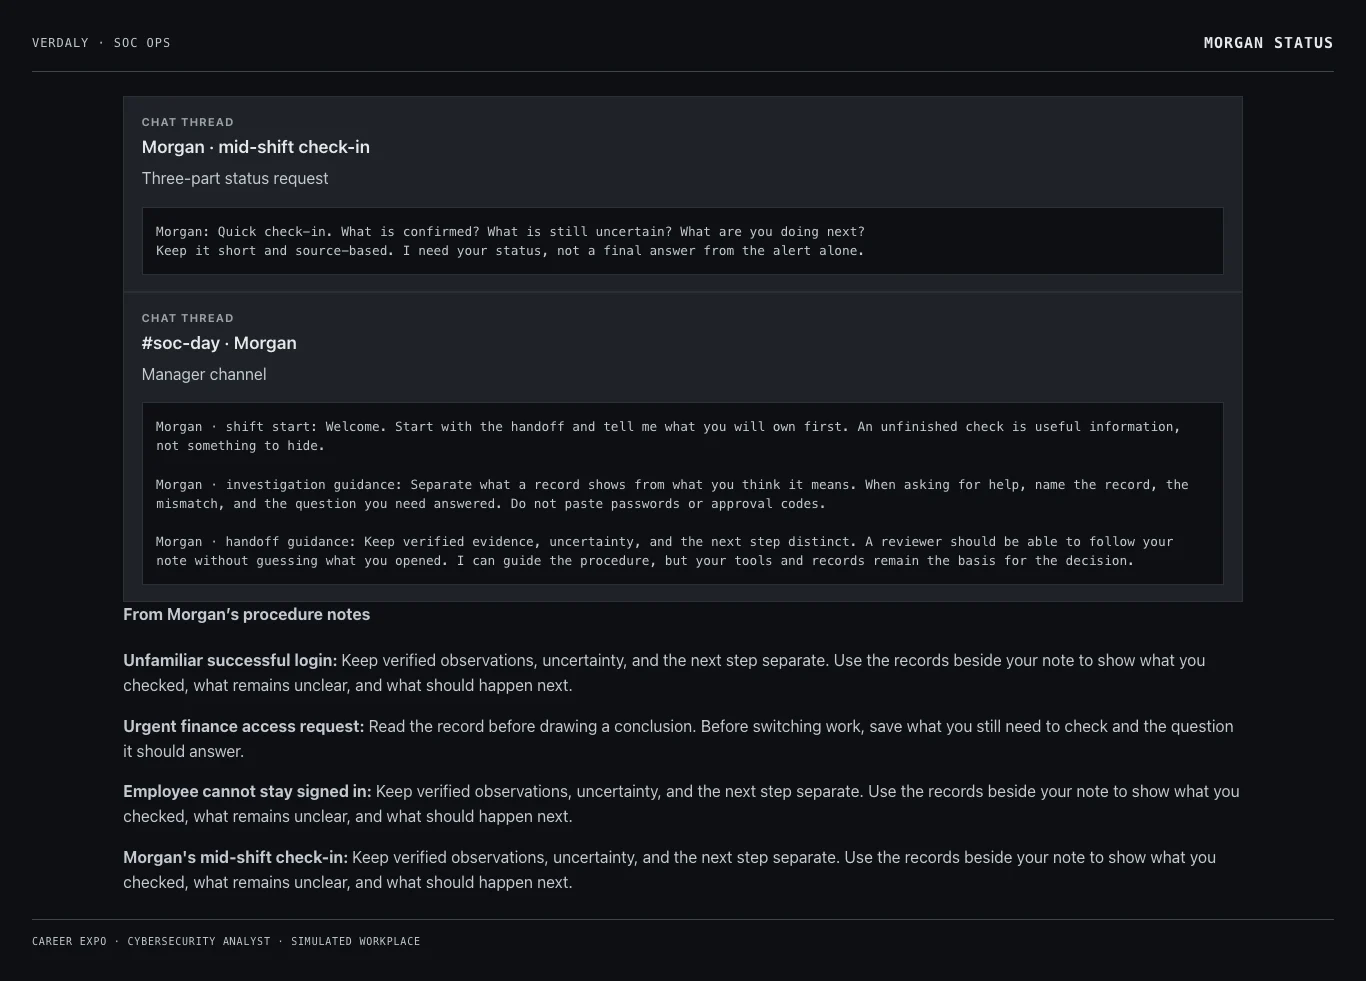
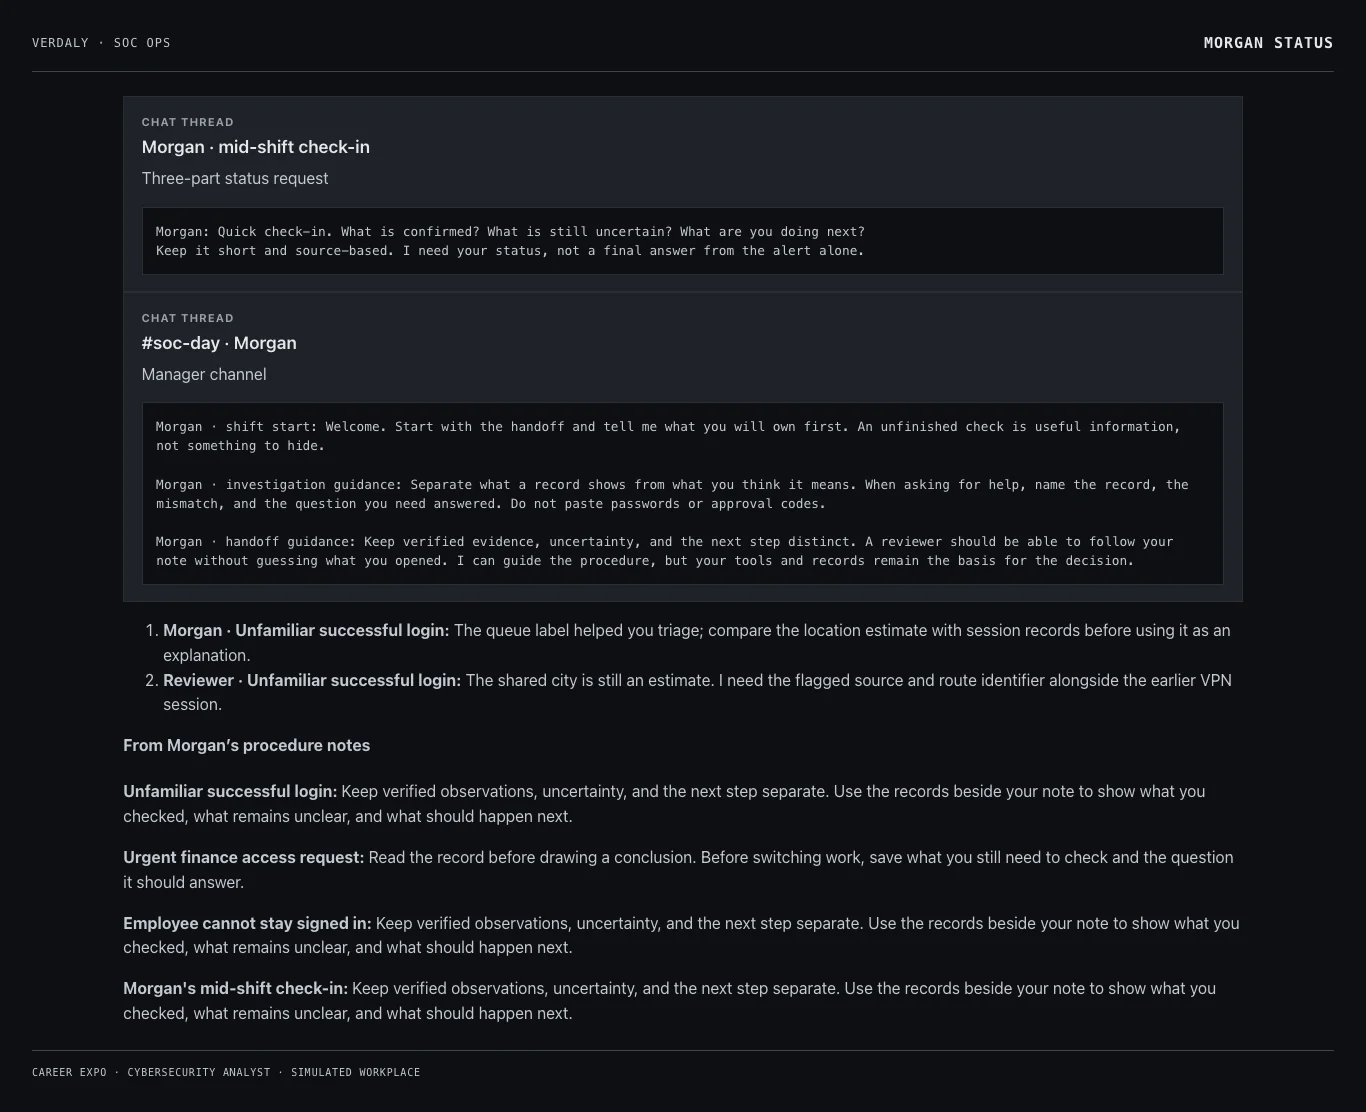
fix(integration): reconcile public claims and current media provenance

diff --git a/apps/web/test/product-media.test.ts b/apps/web/test/product-media.test.ts
@@ -14,9 +14,12 @@ describe("public product media", () => {
   it("has twelve typed scenes backed by real files and matching provenance", () => {
     expect(Object.keys(productMedia)).toEqual(Array.from({ length: 12 }, (_, index) => `a-${String(index + 1).padStart(2, "0")}`));
     const packSha256 = createHash("sha256").update(readFileSync(new URL("../../../content/packs/cybersecurity-analyst/pack.yaml", moduleBase))).digest("hex");
+    expect(Object.values(productMedia).filter(({ authenticity }) => authenticity === "representative").map(({ id }) => id)).toEqual(["a-06", "a-10"]);
     let count = 0;
     for (const media of Object.values(productMedia)) {
       expect(media.provenance).toBe("/careers/media/provenance.json");
+      const capturePack = media.authenticity === "real" ? "cybersecurity_analyst@2.0.0" : "cybersecurity_analyst@1.0.0";
[1 lines of base64/hex data omitted]
       for (const [theme, devices] of Object.entries(media.variants)) {
         for (const variant of Object.values(devices)) {
           const source = readFileSync(new URL(`.${variant.src}`, publicRoot));
@@ -25,8 +28,8 @@ describe("public product media", () => {
           expect(source.length).toBeGreaterThan(1000);
           expect(variant.aspectRatio).toMatch(/^\d+ \/ \d+$/);
           expect(provenance).toContainEqual(expect.objectContaining({
-            id: media.id, file: variant.src.split("/").at(-1), pack: "cybersecurity_analyst@1.0.0",
-            packSha256, seed: 7, route: "/fixtures/product-media.html", theme, crop: "fullPage",
+            id: media.id, file: variant.src.split("/").at(-1), pack: capturePack,
+            packSha256: captureSha256, seed: 7, route: "/fixtures/product-media.html", theme, crop: "fullPage",
           }));
           count++;
         }

diff --git a/apps/web/e2e/debrief.spec.ts b/apps/web/e2e/debrief.spec.ts
@@ -38,7 +38,7 @@ test("completion opens five-decision debrief across themes and viewports", async
     localStorage.setItem("career-expo-theme", "dark");
   });
   await page.goto("/start", { waitUntil: "domcontentloaded" });
-  await expect(page.getByRole("heading", { name: "Day one · floor plan" })).toBeVisible();
+  await expect(page.getByRole("heading", { name: "Head to Security Operations" })).toBeVisible();
   await page.getByRole("button", { name: /Security Operations/ }).click({ force: true });
   await expect(page.getByRole("region", { name: "Workplace space" })).toBeVisible();
   await expect(page.locator("body")).toContainText("press E to sit");
@@ -90,12 +90,12 @@ test("completion opens five-decision debrief across themes and viewports", async
   expect(await fits()).toBe(true);
   expect(await contrastViolations()).toEqual([]);
   await page.screenshot({ path: "test-results/debrief-desktop-dark.png", fullPage: true });
-  await page.getByRole("button", { name: "Switch to light mode" }).click();
+  await page.getByRole("button", { name: "Switch to light theme" }).click();
   await expect(page.locator("html")).toHaveAttribute("data-theme", "light");
   expect(await fits()).toBe(true);
   expect(await contrastViolations()).toEqual([]);
   await page.screenshot({ path: "test-results/debrief-desktop-light.png", fullPage: true });
-  await page.getByRole("button", { name: "Switch to dark mode" }).click();
+  await page.getByRole("button", { name: "Switch to dark theme" }).click();
   await expect(page.locator("html")).toHaveAttribute("data-theme", "dark");
   await page.setViewportSize({ width: 390, height: 844 });
   expect(await fits()).toBe(true);

diff --git a/apps/web/src/site/pages/CareersPage.tsx b/apps/web/src/site/pages/CareersPage.tsx
@@ -1,5 +1,5 @@
 import { PublicChapter, ChapterSeparator, ArtifactStage } from "../ArtDirection.js";
-import { productMedia, type ProductMediaId } from "../productMedia.js";
+import { selectProductMedia, type ProductMediaId } from "../productMedia.js";
 import {
   NurseHandoffSheet,
   NurseVitalsTrend,
@@ -15,12 +15,10 @@ import { getCareerBySlug, careerPath } from "../../careers/careers.js";
 import { SiteLink } from "../SiteLink.js";
 
 function ThemedMedia({ id, alt }: { id: ProductMediaId; alt: string }) {
-  const media = productMedia[id];
-  const variants = media.variants as any;
-  const l_desktop = variants.light?.desktop?.src || variants.dark.desktop.src;
-  const l_mobile = variants.light?.mobile?.src || l_desktop;
-  const d_desktop = variants.dark.desktop.src;
-  const d_mobile = variants.dark.mobile?.src || d_desktop;
+  const l_desktop = selectProductMedia(id, "light", "desktop").src;
+  const l_mobile = selectProductMedia(id, "light", "mobile").src;
+  const d_desktop = selectProductMedia(id, "dark", "desktop").src;
+  const d_mobile = selectProductMedia(id, "dark", "mobile").src;
 
   return (
     <div className="themed-media-wrapper">

diff --git a/apps/web/test/careers.test.tsx b/apps/web/test/careers.test.tsx
@@ -206,13 +206,13 @@ describe("public career data", () => {
 });
 
 describe("Career Explorer interaction", () => {
-  it("shows Ready Now and Workshop with useful content and no carousel", async () => {
+  it("shows Playable now and Taking shape with useful content and no carousel", async () => {
     render(<SiteApp initialRoute="/careers" />);
     expect(
-      await screen.findByRole("heading", { name: "Ready Now" }),
+      await screen.findByRole("heading", { name: "Playable now" }),
     ).toBeVisible();
     expect(
-      screen.getByRole("heading", { name: "In the Workshop" }),
+      screen.getByRole("heading", { name: "Taking shape" }),
     ).toBeVisible();
     expect(screen.getByText(careerAt(0).shortSummary)).toBeVisible();
     expect(screen.getByText(careerAt(1).shortSummary)).toBeVisible();

diff --git a/apps/server/test/debrief-browser-server.ts b/apps/server/test/debrief-browser-server.ts
@@ -34,11 +34,14 @@ class BrowserReviewRepository extends InMemoryRepository {
 }
 
 const server = Fastify();
+const repository = process.env.ASSESSED_BROWSER_FIXTURE === "1"
+  ? new InMemoryRepository()
+  : new BrowserReviewRepository();
 await server.register(cors, { origin: true });
 await server.register(fastifyTRPCPlugin, {
   prefix: "/trpc",
   trpcOptions: {
-    router: createAppRouter(new BrowserReviewRepository()),
+    router: createAppRouter(repository),
     createContext: () => ({ userId: "local-user" }),
   },
 });

diff --git a/apps/web/src/site/careers/WorkshopShelf.tsx b/apps/web/src/site/careers/WorkshopShelf.tsx
@@ -14,7 +14,7 @@ export function WorkshopShelf({
   const Heading = headingLevel === 2 ? "h2" : "h3";
   return (
     <section className="career-shelf" aria-labelledby="workshop-title">
-      <Heading id="workshop-title">In the Workshop</Heading>
+      <Heading id="workshop-title">Taking shape</Heading>
       <p>
         Workshop roles show the kinds of decisions you’d make — previews only,
         for now. Want one of these first? Mark it — you can undo anytime.

diff --git a/apps/web/src/site/careers/ReadyNowStage.tsx b/apps/web/src/site/careers/ReadyNowStage.tsx
@@ -11,7 +11,7 @@ export function ReadyNowStage({
   const Heading = headingLevel === 2 ? "h2" : "h3";
   return (
     <section className="career-stage" aria-labelledby="ready-now-title">
-      <Heading id="ready-now-title">Ready Now</Heading>
+      <Heading id="ready-now-title">Playable now</Heading>
       <p>Step into a career you can try today.</p>
       <div className="career-ready-grid">
         {careers.map((career) => (

diff --git a/apps/web/src/site/pages/CareerDetailPage.tsx b/apps/web/src/site/pages/CareerDetailPage.tsx
@@ -15,8 +15,8 @@ export function CareerDetailPage({ career }: { career: PublicCareer }) {
         <p className="eyebrow">
           {career.field} ·{" "}
           {career.availability === "ready_now"
-            ? "Ready Now"
-            : "In the Workshop"}
+            ? "Playable now"
+            : "Taking shape"}
         </p>
         <h1>{career.title}</h1>
         <p className="lede">{career.shortSummary}</p>

diff --git a/apps/web/src/site/ArtDirection.tsx b/apps/web/src/site/ArtDirection.tsx
@@ -43,7 +43,7 @@ export function ProvenanceLabel({ provenance }: { provenance: MediaProvenance })
   return (
     <span className="ui-provenance">
       {provenance.career} <span aria-hidden="true">·</span>{" "}
-      {provenance.kind === "real" ? "Ready now" : "Workshop concept"}
+      {provenance.kind === "real" ? "Playable now" : "Workshop concept"}
     </span>
   );
 }

diff --git a/apps/web/test/site-entry.test.tsx b/apps/web/test/site-entry.test.tsx
@@ -184,7 +184,7 @@ describe("site routes", () => {
         .length,
     ).toBe(4);
     expect(
-      tileProvenance.filter((el) => /ready now/i.test(el.textContent)).length,
+      tileProvenance.filter((el) => /playable now/i.test(el.textContent)).length,
     ).toBe(1);
     expect(screen.getByText("Playable now")).toBeInTheDocument();
     expect(

diff --git a/apps/web/src/index.tsx b/apps/web/src/index.tsx
@@ -375,7 +375,7 @@ export function App({
       )}
 
       <aside className="privacy-note">
-        Reflections stay private unless you explicitly share them.
+        Submitted reflections become part of your Career Expo session. See Privacy and safety for access limits.
       </aside>
     </main>
   );

diff --git a/apps/web/src/site/home.css b/apps/web/src/site/home.css
@@ -454,4 +454,7 @@
   .home-hero-copy h1 {
     font-size: clamp(2.55rem, 11vw, 3.4rem);
   }
+  .home-handoff {
+    --ui-pass-to: 0px;
+  }
 }
